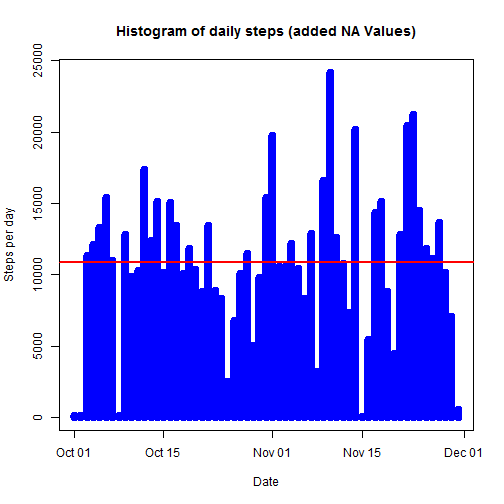
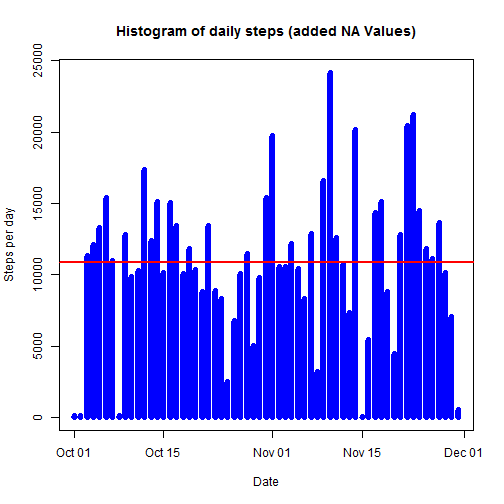
Slight changes in graphs

diff --git a/Data_Science/005_Reproducible_Research/Project1/Reproducible_Research.html b/Data_Science/005_Reproducible_Research/Project1/Reproducible_Research.html
@@ -321,11 +321,11 @@ head(sum.steps.day)
 
 <p>Step 1.4 - Histogram of the total number of steps taken each day</p>
 
-<pre><code class="r">plot(sum.steps.day$date, sum.steps.day$steps, type = &quot;h&quot;, main = &quot;Histogram of daily steps&quot;, xlab = &quot;Date&quot;, ylab = &quot;Steps per day&quot;, col = &quot;blue&quot;, lwd = 8)
+<pre><code class="r">plot(sum.steps.day$date, sum.steps.day$steps, type = &quot;h&quot;, main = &quot;Histogram of daily steps&quot;, xlab = &quot;Date&quot;, ylab = &quot;Steps per day&quot;, col = &quot;blue&quot;, lwd = 6)
 abline(h = mean(sum.steps.day$steps, na.rm = TRUE), col = &quot;red&quot;, lwd = 2)
 </code></pre>
 
[2 lines of base64/hex data omitted]
 
 <p>Step 1.5 - Calculate and report the mean and median of the total number of steps taken per day</p>
 
@@ -336,7 +336,7 @@ paste(&quot;Mean steps per Day =&quot;, round(mean(sum.steps.day$steps, na.rm = 
 <pre><code>## [1] &quot;Mean steps per Day = 10766&quot;
 </code></pre>
 
-<pre><code class="r"># Median steps per Day
+<pre><code class="r"># Median steps per Day (rounded)
 paste(&quot;Median steps per Day =&quot;, round(median(sum.steps.day$steps, na.rm = TRUE), 0))
 </code></pre>
 
@@ -365,11 +365,11 @@ head(mean.steps.interval)
 <p>Step 2.2 - Time series plot of the 5-minute interval and the average number of steps taken, averaged across all days</p>
 
 <pre><code class="r">plot(mean.steps.interval$interval, mean.steps.interval$steps, type = &quot;l&quot;, main = &quot;Average daily activity by interval&quot;, xlab = &quot;Interval&quot;,
-     ylab = &quot;Steps per interval&quot;, col = &quot;blue&quot;, lwd = 2)
+     ylab = &quot;Steps per interval&quot;, col = &quot;blue&quot;, lwd = 1)
 abline(h = mean(mean.steps.interval$steps, na.rm = TRUE), col = &quot;red&quot;, lwd = 2)
 </code></pre>
 
[2 lines of base64/hex data omitted]
 
 <p>Step 2.3 - Maximum number of steps on 5-minute interval, on average across all the days in the dataset</p>
 
@@ -435,11 +435,11 @@ head(steps.day)
 
 <p>Step 3.3 - Create a new dataset that is equal to the original dataset but with the missing data filled in</p>
 
-<pre><code class="r">plot(steps.day$date, steps.day$steps, type = &quot;h&quot;, main = &quot;Histogram of daily steps (added NA Values)&quot;, xlab = &quot;Date&quot;, ylab = &quot;Steps per day&quot;, col = &quot;blue&quot;, lwd = 8)
+<pre><code class="r">plot(steps.day$date, steps.day$steps, type = &quot;h&quot;, main = &quot;Histogram of daily steps (added NA Values)&quot;, xlab = &quot;Date&quot;, ylab = &quot;Steps per day&quot;, col = &quot;blue&quot;, lwd = 6)
 abline(h = mean(steps.day$steps, na.rm = TRUE), col = &quot;red&quot;, lwd = 2)
 </code></pre>
 
[2 lines of base64/hex data omitted]
 
 <h4>Part 3 - Differences in activity patterns between weekdays and weekends</h4>
 

diff --git a/Data_Science/005_Reproducible_Research/Project1/README.md b/Data_Science/005_Reproducible_Research/Project1/README.md
@@ -129,7 +129,7 @@ Step 1.4 - Histogram of the total number of steps taken each day
 
 
 ```r
-plot(sum.steps.day$date, sum.steps.day$steps, type = "h", main = "Histogram of daily steps", xlab = "Date", ylab = "Steps per day", col = "blue", lwd = 8)
+plot(sum.steps.day$date, sum.steps.day$steps, type = "h", main = "Histogram of daily steps", xlab = "Date", ylab = "Steps per day", col = "blue", lwd = 6)
 abline(h = mean(sum.steps.day$steps, na.rm = TRUE), col = "red", lwd = 2)
 ```
 
@@ -149,7 +149,7 @@ paste("Mean steps per Day =", round(mean(sum.steps.day$steps, na.rm = TRUE), 0))
 ```
 
 ```r
-# Median steps per Day
+# Median steps per Day (rounded)
 paste("Median steps per Day =", round(median(sum.steps.day$steps, na.rm = TRUE), 0))
 ```
 
@@ -184,7 +184,7 @@ Step 2.2 - Time series plot of the 5-minute interval and the average number of s
 
 ```r
 plot(mean.steps.interval$interval, mean.steps.interval$steps, type = "l", main = "Average daily activity by interval", xlab = "Interval",
-     ylab = "Steps per interval", col = "blue", lwd = 2)
+     ylab = "Steps per interval", col = "blue", lwd = 1)
 abline(h = mean(mean.steps.interval$steps, na.rm = TRUE), col = "red", lwd = 2)
 ```
 
@@ -270,7 +270,7 @@ Step 3.3 - Create a new dataset that is equal to the original dataset but with t
 
 
 ```r
-plot(steps.day$date, steps.day$steps, type = "h", main = "Histogram of daily steps (added NA Values)", xlab = "Date", ylab = "Steps per day", col = "blue", lwd = 8)
+plot(steps.day$date, steps.day$steps, type = "h", main = "Histogram of daily steps (added NA Values)", xlab = "Date", ylab = "Steps per day", col = "blue", lwd = 6)
 abline(h = mean(steps.day$steps, na.rm = TRUE), col = "red", lwd = 2)
 ```
 
